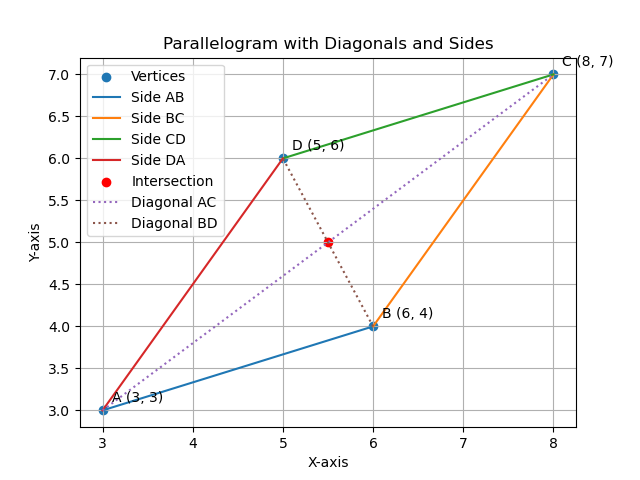
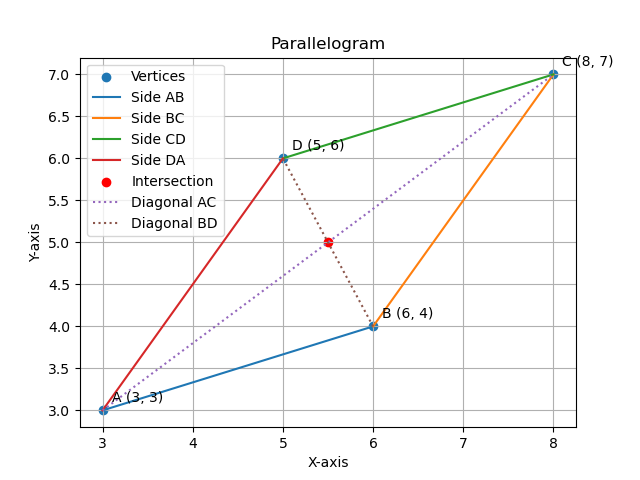
Add files via upload

Changed region(s): [[0.25, 0.0625, 0.7812, 0.125]]

diff --git a/Assignment-2/codes/python.py b/Assignment-2/codes/python.py
@@ -34,7 +34,7 @@ for i, (x, y) in enumerate(points):
 # Set labels and title
 plt.xlabel('X-axis')
 plt.ylabel('Y-axis')
-plt.title('Parallelogram with Diagonals and Sides')
+plt.title('Parallelogram')
 
 # Add legend
 plt.legend()
